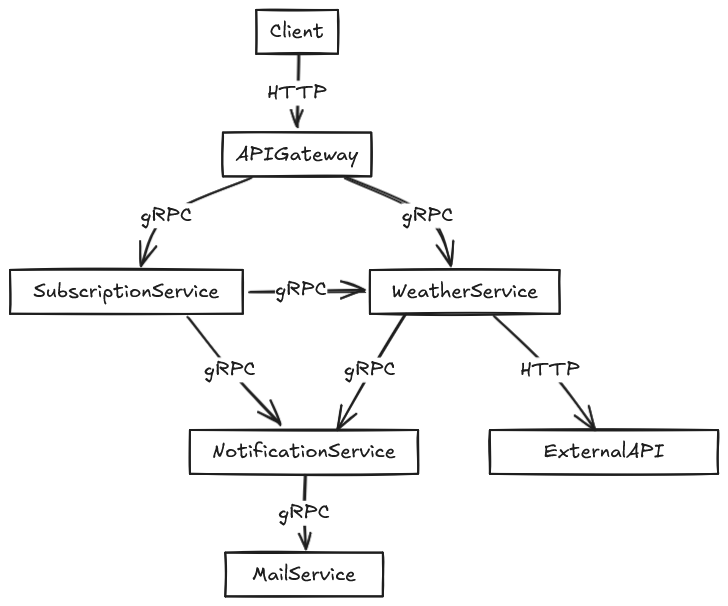
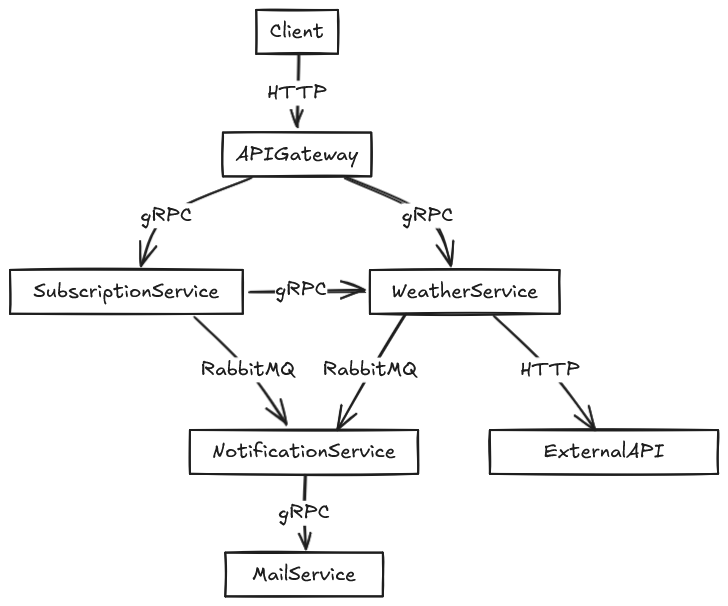
minor communication changes

Changed region(s): [[0.272, 0.5347, 0.5742, 0.7129], [0.2418, 0.505, 0.272, 0.5347]]

diff --git a/docs/adr/microservice-communication.md b/docs/adr/microservice-communication.md
@@ -21,6 +21,7 @@ Need to choose effective and scalable way of communication between each microser
 
    - ➕ Asynchronous communication
    - ➕ Good for load balancing
+   - ➕ Better delivery control
    - ➖ Harder to scale
    - ➖ Requires major architectural changes
 
@@ -34,8 +35,8 @@ Need to choose effective and scalable way of communication between each microser
    - ➖ Overhead for small projects(no significant perfomance improvements)
 
 ## Decision
-
-**gRPC**
+**RabbitMQ** for communication with NotificationService for better control and efficiency\
+**gRPC** in other cases
 
 ## Consequences
 
